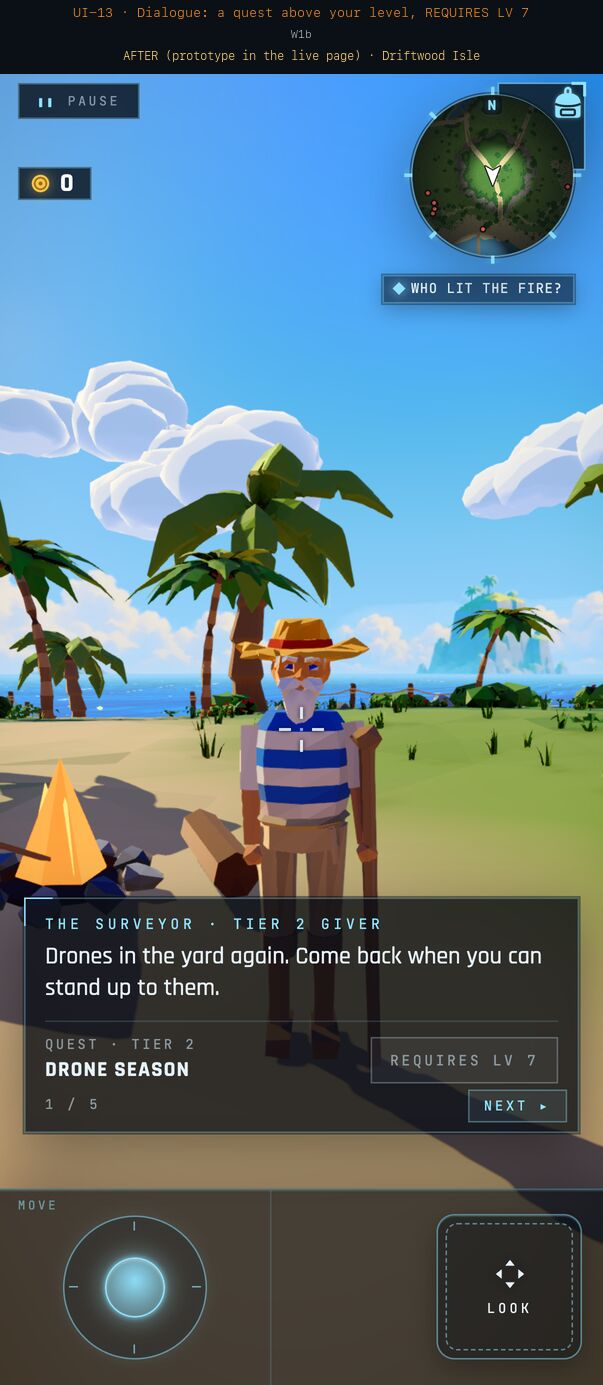
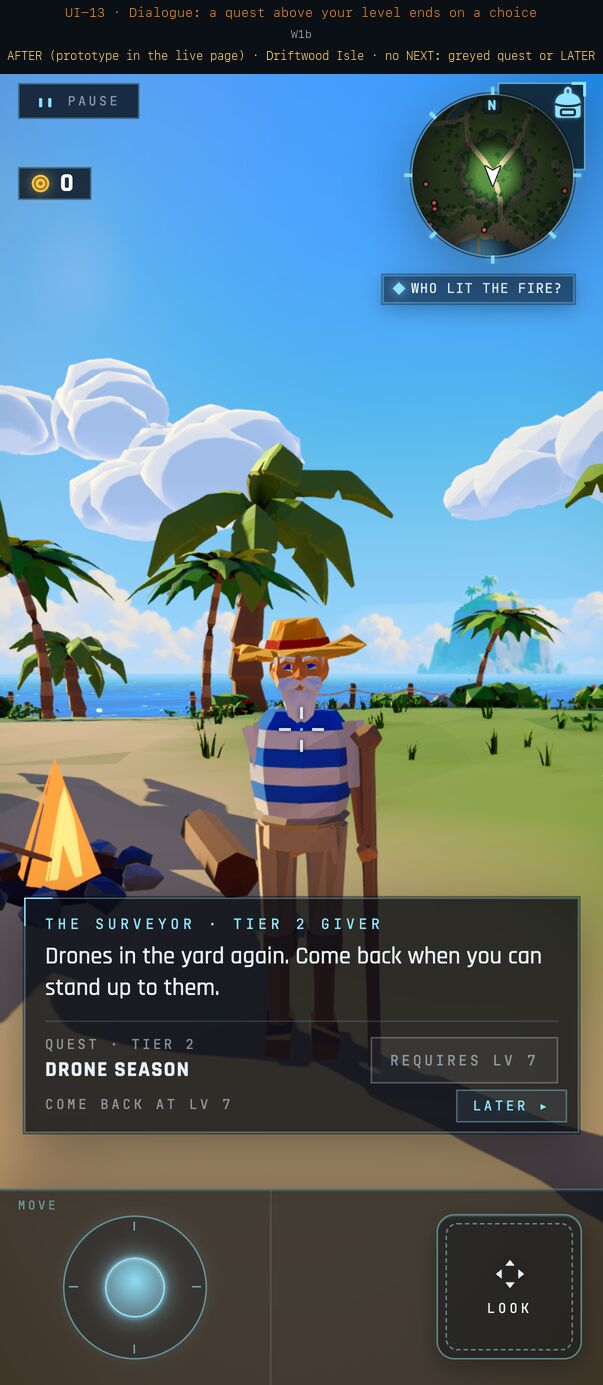
docs(kitchen-sink): quest screens, six UI picks
Jake 11-03: approved UI-10, 33, 09, 34, 08. UI-14 gets every quest
screen (list, details, locked, map). UI-13 drops NEXT for a choice
when a quest is level-gated. UI-35 asks for ammo variants.

Assisted-by: Claude-Code:claude-opus-5-5

diff --git a/art/showcase-template/round-12-ui/index.html b/art/showcase-template/round-12-ui/index.html
@@ -11,15 +11,15 @@ figcaption{font-size:11px;color:#9aa3a8;text-align:center;padding-top:3px}
 #z{position:fixed;inset:0;background:#000e;display:none;align-items:center;justify-content:center;touch-action:pinch-zoom}#z img{max-width:100vw;max-height:100vh;max-height:100dvh;width:auto;height:auto;object-fit:contain;display:block}
 </style></head><body><main><h1>Kitchen Sink v2 · every UI change, in engine</h1>
 <p>Round 12 (2026-11-03). Every frame is the real game on a phone in portrait, from a served build of main. BEFORE is the live page as it is today. AFTER is the same live page with the new element added, built from the engine's own HUD classes. Driftwood Isle's crabs, Wendell and Maren stand in for the showcase's robots and NPCs. The names and numbers are the showcase's. Nalati and Pine Hollow are used where their live component is the one the showcase extends. Only the personal-best board (a 3D sign) is a generated edit. Tap a frame to see it big.</p>
-<p>Each HUD change still needs your pick before it is built (the HUD rule). <b>Picks so far: 18 approved · 0 changes asked · 0 cut · 20 pending.</b></p>
+<p>Each HUD change still needs your pick before it is built (the HUD rule). <b>Picks so far: 23 approved · 1 changes asked · 0 cut · 14 pending.</b></p>
 <p><b>The 38, grouped by what kind of change each is:</b> 4 fight-HUD controls, 6 banners sharing one style, 3 chips sharing one slot, 3 end cards sharing one card, 5 menus, 7 small additions to existing screens, 2 world things, and 8 I'd suggest cutting (shown, not cut).</p>
 <nav class="toc"><a href="#s1">1 · New controls on the fight HUD (4)</a><a href="#s2">2 · Banners: one shared style (6)</a><a href="#s3">3 · The chip under the minimap: one at a time (3)</a><a href="#s4">4 · End cards: one shared card (3)</a><a href="#s5">5 · Menus (5)</a><a href="#s6">6 · Small additions to screens that already exist (7)</a><a href="#s7">7 · In the world, not HUD (2)</a><a href="#s8">8 · Could be cut (shown, nothing cut yet) (8)</a></nav>
 <h2 id="s1">1 · New controls on the fight HUD</h2><p>The only new things on screen all the time in a fight. Floating numbers already exist; the other three are new.</p><div class="pairs"><section class="pair"><h3><b class="st approved">APPROVED</b> UI-01 · XP bar + LV chip <span>new</span></h3><p>A thin bar on the touch bar’s top edge, &quot;LV 6&quot; and the XP at its left over MOVE. Hidden on every shard without levels.</p><p class="notes">Your notes: &quot;nice … good placement&quot;</p><div class="two"><figure><img loading="lazy" src="ui-01-xp-bar-before.jpg" alt="UI-01 before"><figcaption>BEFORE · live</figcaption></figure><figure><img loading="lazy" src="ui-01-xp-bar-after.jpg" alt="UI-01 after"><figcaption>AFTER · prototype</figcaption></figure></div></section><section class="pair"><h3><b class="st approved">APPROVED</b> UI-04 · Enemy nameplates within 25 m <span>extends Combat.ts</span></h3><p>&quot;Lv n Name&quot; in the con colour (grey, green, yellow, orange, red, skull), a stagger bar, burn / shock tint, a RARE tag. Crabs stand in for robots.</p><p class="notes">Your notes: &quot;looks good to me&quot;</p><div class="two"><figure><img loading="lazy" src="ui-04-nameplates-before.jpg" alt="UI-04 before"><figcaption>BEFORE · live</figcaption></figure><figure><img loading="lazy" src="ui-04-nameplates-after.jpg" alt="UI-04 after"><figcaption>AFTER · prototype</figcaption></figure></div></section><section class="pair"><h3><b class="st approved">APPROVED</b> UI-05 · Floating combat text <span>extends Combat.ts</span></h3><p>A big yellow crit, a small grey glance, the DEFLECT and PARRY words, red −12 and DODGE by your vitals. Six on screen, the cap.</p><p class="notes">Your notes: &quot;looks good to me&quot;</p><div class="two"><figure><img loading="lazy" src="ui-05-floating-text-before.jpg" alt="UI-05 before"><figcaption>BEFORE · live</figcaption></figure><figure><img loading="lazy" src="ui-05-floating-text-after.jpg" alt="UI-05 after"><figcaption>AFTER · prototype</figcaption></figure></div></section><section class="pair"><h3><b class="st approved">APPROVED</b> UI-06 · GUARD button (D6) <span>new</span></h3><p>Four in a row: GUARD · LOCK · DODGE · JUMP, GUARD in the slot the spear’s THROW takes, only while the sword is held; its rim lights in the parry window.</p><p class="notes">Your notes: &quot;I think that's okay&quot;; then &quot;four in a row, approved&quot;: GUARD · LOCK · DODGE · JUMP, GUARD in the slot the spear's THROW takes (frame redone)</p><div class="two"><figure><img loading="lazy" src="ui-06-guard-button-before.jpg" alt="UI-06 before"><figcaption>BEFORE · live</figcaption></figure><figure><img loading="lazy" src="ui-06-guard-button-after.jpg" alt="UI-06 after"><figcaption>AFTER · prototype</figcaption></figure></div></section></div>
 <h2 id="s2">2 · Banners: one shared style</h2><p>Short messages across the screen that never block play. Built once, filled in by six moments.</p><div class="pairs"><section class="pair"><h3><b class="st approved">APPROVED</b> UI-02 · Level-up in a fight <span>new</span></h3><p>Never blocks: a ring off the chip, the chip flips to LV 7, one gain line above it, HP refilled (VITALS 31 → 179).</p><p class="notes">Your notes: &quot;Yeah, sure&quot;</p><div class="two"><figure><img loading="lazy" src="ui-02-levelup-fight-before.jpg" alt="UI-02 before"><figcaption>BEFORE · live</figcaption></figure><figure><img loading="lazy" src="ui-02-levelup-fight-after.jpg" alt="UI-02 after"><figcaption>AFTER · prototype</figcaption></figure></div></section><section class="pair"><h3><b class="st approved">APPROVED</b> UI-07 · Named elite: NAMED ELITE · LV 6 <span>extends EliteBar</span></h3><p>Nalati’s real banner and pinned bar, with the showcase’s Big Pallet and an LV tag.</p><p class="notes">Your notes: &quot;looks very similar … nice&quot;</p><div class="two"><figure><img loading="lazy" src="ui-07-elite-banner-before.jpg" alt="UI-07 before"><figcaption>BEFORE · live</figcaption></figure><figure><img loading="lazy" src="ui-07-elite-banner-after.jpg" alt="UI-07 after"><figcaption>AFTER · prototype</figcaption></figure></div></section><section class="pair"><h3><b class="st approved">APPROVED</b> UI-24 · Gauntlet wave banner <span>new</span></h3><p>WAVE 2 / 5 big in the middle as a wave starts, in the boundary warning’s type, fading after ~2 s. Nothing stays on screen.</p><p class="notes">Your notes: redone frame approved, &quot;UI 24 looks good&quot; (WAVE 2 / 5 in the middle only, fades; no chip). First round: keep &quot;WAVE 2 / 5&quot; big in the middle of the screen when a wave starts (&quot;kind of cool&quot;); drop the wave chip that stays under the quest chip: &quot;too fucking busy … we can't have those permanent banners&quot;</p><div class="two"><figure><img loading="lazy" src="ui-24-wave-banner-before.jpg" alt="UI-24 before"><figcaption>BEFORE · live</figcaption></figure><figure><img loading="lazy" src="ui-24-wave-banner-after.jpg" alt="UI-24 after"><figcaption>AFTER · prototype</figcaption></figure></div></section><section class="pair"><h3><b class="st approved">APPROVED</b> UI-26 · Boss intro title card <span>content only</span></h3><p>The real letterbox, name card and HOLD TO SKIP ring: THE CRATE TITAN · LV 20.</p><p class="notes">Your notes: &quot;fine … looks fine&quot;</p><div class="two"><figure><img loading="lazy" src="ui-26-cutscene-card-before.jpg" alt="UI-26 before"><figcaption>BEFORE · live</figcaption></figure><figure><img loading="lazy" src="ui-26-cutscene-card-after.jpg" alt="UI-26 after"><figcaption>AFTER · prototype</figcaption></figure></div></section><section class="pair"><h3><b class="st approved">APPROVED</b> UI-22 · Storm hour <span>the wave banner’s line</span></h3><p>One centred line as the hour starts, fading after ~2 s; lighting a beacon flashes BEACON 2 / 4 the same way. No minimap beacons, no toast; the storm chip is today’s.</p><p class="notes">Your notes: redone frame approved, &quot;UI 22 looks good&quot;. First round: &quot;way too busy … the beacons on the minimap is way too busy … a really more minimalist, lightweight&quot; one; now one centred STORM HOUR line that fades, no minimap beacons, no toast, the storm chip unchanged</p><div class="two"><figure><img loading="lazy" src="ui-22-storm-hour-before.jpg" alt="UI-22 before"><figcaption>BEFORE · live</figcaption></figure><figure><img loading="lazy" src="ui-22-storm-hour-after.jpg" alt="UI-22 after"><figcaption>AFTER · prototype</figcaption></figure></div></section><section class="pair"><h3><b class="st approved">APPROVED</b> UI-17 · Checkpoint card (QC6) <span>new</span></h3><p>A quest leg done and saved: the reward caption’s type with a CHECKPOINT SAVED tick.</p><p class="notes">Your notes: &quot;Yeah, cool. Let's do it.&quot;</p><div class="two"><figure><img loading="lazy" src="ui-17-checkpoint-card-before.jpg" alt="UI-17 before"><figcaption>BEFORE · live</figcaption></figure><figure><img loading="lazy" src="ui-17-checkpoint-card-after.jpg" alt="UI-17 after"><figcaption>AFTER · prototype</figcaption></figure></div></section></div>
 <h2 id="s3">3 · The chip under the minimap: one at a time</h2><p>A single timer or counter slot that shows only during a run. Built once; this also settles the crowded slot.</p><div class="pairs"><section class="pair"><h3><b class="st approved">APPROVED</b> UI-20 · Course clock chip (D22) <span>reuses the weather chip</span></h3><p>Only during a run, in the quest chip’s place (the quest chip hides and comes back when the run ends): time, checkpoint, PB.</p><p class="notes">Your notes: redone frame approved, &quot;UI 20 looks good&quot;. First round: &quot;it can hide the quest chip whilst it's showing the course clock … when we're done … show the quest chip again … not be so busy&quot;; the clock now takes the quest chip's place</p><div class="two"><figure><img loading="lazy" src="ui-20-course-clock-before.jpg" alt="UI-20 before"><figcaption>BEFORE · live</figcaption></figure><figure><img loading="lazy" src="ui-20-course-clock-after.jpg" alt="UI-20 after"><figcaption>AFTER · prototype</figcaption></figure></div></section><section class="pair"><h3><b class="st approved">APPROVED</b> UI-29 · Training Vault sealed room <span>new</span></h3><p>Picked A: inside the vault the tracked quest hides and one chip takes its place, TRAINING VAULT | ROOM 2/4 · 3 LEFT; the quest chip comes back when you leave.</p><p class="notes">Your notes: &quot;way too busy … hide the rest of the quest … a dungeon specific quest chip, but like just one … I need new ideas&quot;; then &quot;we can pick A for the UI 29, the vault stuff&quot;. **A:** inside the vault the tracked quest hides and one chip takes its place, TRAINING VAULT · ROOM 2/4 · 3 LEFT; the quest chip comes back on leaving (ui-29-opt-a.jpg)</p><div class="two"><figure><img loading="lazy" src="ui-29-vault-room-before.jpg" alt="UI-29 before"><figcaption>BEFORE · live</figcaption></figure><figure><img loading="lazy" src="ui-29-opt-a.jpg" alt="UI-29 after"><figcaption>AFTER · prototype</figcaption></figure></div><p class="notes">The options you chose from (you picked A):</p><figure><img loading="lazy" src="ui-29-board.jpg" alt="UI-29 options"><figcaption>A · the vault’s own quest chip · B · nothing stays · C · room pips only</figcaption></figure></section><section class="pair"><h3><b class="st approved">APPROVED</b> UI-31 · Hover park trick score <span>new</span></h3><p>A trick word over the board; the running score takes the quest chip’s place while you’re in the park.</p><p class="notes">Your notes: redone frame approved, &quot;UI 31 looks good now&quot;. First round: &quot;the same kind of temporary UI … the timed racing … when we show that kind of UI, we want to hide the normal quest UI … make it tidier&quot;; the trick score now takes the quest chip's place in the park</p><div class="two"><figure><img loading="lazy" src="ui-31-trick-score-before.jpg" alt="UI-31 before"><figcaption>BEFORE · live</figcaption></figure><figure><img loading="lazy" src="ui-31-trick-score-after.jpg" alt="UI-31 after"><figcaption>AFTER · prototype</figcaption></figure></div></section></div>
 <h2 id="s4">4 · End cards: one shared card</h2><p>A full card after something finishes, only out of combat.</p><div class="pairs"><section class="pair"><h3><b class="st approved">APPROVED</b> UI-03 · Level-up card, out of combat <span>new</span></h3><p>After 5 s calm: each gain ticks up in turn, gold on a big roll, grey on +0, TAP TO SKIP.</p><p class="notes">Your notes: &quot;UI 03 looks good to me&quot;</p><div class="two"><figure><img loading="lazy" src="ui-03-levelup-card-before.jpg" alt="UI-03 before"><figcaption>BEFORE · live</figcaption></figure><figure><img loading="lazy" src="ui-03-levelup-card-after.jpg" alt="UI-03 after"><figcaption>AFTER · prototype</figcaption></figure></div></section><section class="pair"><h3><b class="st approved">APPROVED</b> UI-19 · Shard-complete card <span>content only</span></h3><p>The real card with the Titan Cleaver and the showcase’s stats.</p><p class="notes">Your notes: &quot;Ui 19 approved&quot;</p><div class="two"><figure><img loading="lazy" src="ui-19-shard-complete-before.jpg" alt="UI-19 before"><figcaption>BEFORE · live</figcaption></figure><figure><img loading="lazy" src="ui-19-shard-complete-after.jpg" alt="UI-19 after"><figcaption>AFTER · prototype</figcaption></figure></div></section><section class="pair"><h3><b class="st approved">APPROVED</b> UI-30 · SHRINE COMPLETE card <span>reuses the complete card</span></h3><p>Time, best, deaths, rooms, the chest and the trophy; one CONTINUE that closes the card. You leave by walking through the real exit portal and rerun by walking back in.</p><p class="notes">Your notes: redone frame approved, &quot;UI 30 looks fine&quot;. First round: &quot;nice but all the buttons have to be different: leaving the mini dungeon means walking through a real portal, not hitting a button, and you can restart, it needs a change&quot;; now one CONTINUE that only closes the card, and a line: the exit portal is open behind the chest, walk through it to leave, walk back in to run it again</p><div class="two"><figure><img loading="lazy" src="ui-30-shrine-complete-before.jpg" alt="UI-30 before"><figcaption>BEFORE · live</figcaption></figure><figure><img loading="lazy" src="ui-30-shrine-complete-after.jpg" alt="UI-30 after"><figcaption>AFTER · prototype</figcaption></figure></div></section></div>
-<h2 id="s5">5 · Menus</h2><p>Screens you open. Two extend an existing shop screen, one extends Pine’s board.</p><div class="pairs"><section class="pair"><h3><b class="st pending">PENDING</b> UI-10 · Character tab (read-only) <span>new tab</span></h3><p>Gear folds into CHARACTER (five tabs); CHARACTER | GEAR sub-tabs inside, opening on CHARACTER: level and XP, the seven attributes against par, ▲▼ aptitude, the derived numbers.</p><p class="notes">Your notes: 2026-11-03, redone for re-review: &quot;Gear and character can be turned into a single item in the 5 menu icons … two nested tabs for gear and character underneath, default to character&quot;; now five tabs (MAP · CHARACTER · FINDS · PACK · FEATS), CHARACTER / GEAR inside, opens on CHARACTER</p><div class="two"><figure><img loading="lazy" src="ui-10-character-tab-before.jpg" alt="UI-10 before"><figcaption>BEFORE · live</figcaption></figure><figure><img loading="lazy" src="ui-10-character-tab-after.jpg" alt="UI-10 after"><figcaption>AFTER · prototype</figcaption></figure></div></section><section class="pair"><h3><b class="st pending">PENDING</b> UI-14 · Quest list on the map tab (D13, D14) <span>new</span></h3><p>MAP | QUESTS sub-tabs in the map tab; QUESTS lists all twelve active, one tracked (feeds the HUD chip).</p><p class="notes">Your notes: 2026-11-03, redone for re-review: &quot;same thing, map and quests can be shared but it must be two nested tabs to toggle them&quot;; now MAP / QUESTS sub-tabs in the map tab, the frame shows QUESTS</p><div class="two"><figure><img loading="lazy" src="ui-14-quest-list-before.jpg" alt="UI-14 before"><figcaption>BEFORE · live</figcaption></figure><figure><img loading="lazy" src="ui-14-quest-list-after.jpg" alt="UI-14 after"><figcaption>AFTER · prototype</figcaption></figure></div></section><section class="pair"><h3><b class="st approved">APPROVED</b> UI-16 · Kill-contract board, fixed mode <span>extends Pine’s board</span></h3><p>Level-locked rows, first-time trophy and joke title.</p><p class="notes">Your notes: &quot;Ui 16 sure&quot;</p><div class="two"><figure><img loading="lazy" src="ui-16-contract-board-before.jpg" alt="UI-16 before"><figcaption>BEFORE · live</figcaption></figure><figure><img loading="lazy" src="ui-16-contract-board-after.jpg" alt="UI-16 after"><figcaption>AFTER · prototype</figcaption></figure></div></section><section class="pair"><h3><b class="st approved">APPROVED</b> UI-32 · Tinker Rook: UPGRADES / BENCH <span>extends ShopPanel</span></h3><p>Two tabs, Scrip and parts on every tile, LV tags and locks.</p><p class="notes">Your notes: &quot;Ui 32 sure&quot;</p><div class="two"><figure><img loading="lazy" src="ui-32-upgrades-bench-before.jpg" alt="UI-32 before"><figcaption>BEFORE · live</figcaption></figure><figure><img loading="lazy" src="ui-32-upgrades-bench-after.jpg" alt="UI-32 after"><figcaption>AFTER · prototype</figcaption></figure></div></section><section class="pair"><h3><b class="st pending">PENDING</b> UI-33 · The weapons shop <span>extends ShopPanel</span></h3><p>Weapons bought, locked by level (the rifle at LV 10).</p><div class="two"><figure><img loading="lazy" src="ui-33-weapons-shop-before.jpg" alt="UI-33 before"><figcaption>BEFORE · live</figcaption></figure><figure><img loading="lazy" src="ui-33-weapons-shop-after.jpg" alt="UI-33 after"><figcaption>AFTER · prototype</figcaption></figure></div></section></div>
-<h2 id="s6">6 · Small additions to screens that already exist</h2><p>A line, a number or a label on something already in the game. No new control.</p><div class="pairs"><section class="pair"><h3><b class="st pending">PENDING</b> UI-13 · REQUIRES LV 7 in the dialogue <span>extends the talk panel</span></h3><p>The real dialogue panel with a quest row and a locked accept button.</p><div class="two"><figure><img loading="lazy" src="ui-13-requires-level-before.jpg" alt="UI-13 before"><figcaption>BEFORE · live</figcaption></figure><figure><img loading="lazy" src="ui-13-requires-level-after.jpg" alt="UI-13 after"><figcaption>AFTER · prototype</figcaption></figure></div></section><section class="pair"><h3><b class="st pending">PENDING</b> UI-09 · Death card + XP loss <span>extends DeathFade</span></h3><p>The same card with one more line: −340 XP, 25 % of level 7, never below level 7.</p><div class="two"><figure><img loading="lazy" src="ui-09-death-card-before.jpg" alt="UI-09 before"><figcaption>BEFORE · live</figcaption></figure><figure><img loading="lazy" src="ui-09-death-card-after.jpg" alt="UI-09 after"><figcaption>AFTER · prototype</figcaption></figure></div></section><section class="pair"><h3><b class="st pending">PENDING</b> UI-34 · The 20-slot pack <span>extends PACK</span></h3><p>One slot a kind, never full; unfound kinds as dashed silhouettes.</p><div class="two"><figure><img loading="lazy" src="ui-34-pack-20-before.jpg" alt="UI-34 before"><figcaption>BEFORE · live</figcaption></figure><figure><img loading="lazy" src="ui-34-pack-20-after.jpg" alt="UI-34 after"><figcaption>AFTER · prototype</figcaption></figure></div></section><section class="pair"><h3><b class="st pending">PENDING</b> UI-35 · Ammo pouch + picker (D17, D18) <span>extends BOLTS</span></h3><p>Pouch counters on the bolts chip; the weapon pie’s look on the BOLTS disc for iron / pitch / broadhead.</p><div class="two"><figure><img loading="lazy" src="ui-35-ammo-pouch-before.jpg" alt="UI-35 before"><figcaption>BEFORE · live</figcaption></figure><figure><img loading="lazy" src="ui-35-ammo-pouch-after.jpg" alt="UI-35 after"><figcaption>AFTER · prototype</figcaption></figure></div></section><section class="pair"><h3><b class="st pending">PENDING</b> UI-08 · Boss bar with phases <span>extends BossBar</span></h3><p>Today’s bar already has phase notches and the PHASE caption; the Crate Titan adds LV 20 and three phase pips.</p><div class="two"><figure><img loading="lazy" src="ui-08-boss-bar-before.jpg" alt="UI-08 before"><figcaption>BEFORE · live</figcaption></figure><figure><img loading="lazy" src="ui-08-boss-bar-after.jpg" alt="UI-08 after"><figcaption>AFTER · prototype</figcaption></figure></div></section><section class="pair"><h3><b class="st pending">PENDING</b> UI-23 · Stealth: UNSEEN <span>content only</span></h3><p>Nalati’s stealth layer; the hidden state’s label is data.</p><div class="two"><figure><img loading="lazy" src="ui-23-stealth-unseen-before.jpg" alt="UI-23 before"><figcaption>BEFORE · live</figcaption></figure><figure><img loading="lazy" src="ui-23-stealth-unseen-after.jpg" alt="UI-23 after"><figcaption>AFTER · prototype</figcaption></figure></div></section><section class="pair"><h3><b class="st pending">PENDING</b> UI-25 · Portal ENTER prompt <span>content only</span></h3><p>The real USE band, reading Enter the Training Vault.</p><div class="two"><figure><img loading="lazy" src="ui-25-portal-enter-before.jpg" alt="UI-25 before"><figcaption>BEFORE · live</figcaption></figure><figure><img loading="lazy" src="ui-25-portal-enter-after.jpg" alt="UI-25 after"><figcaption>AFTER · prototype</figcaption></figure></div></section></div>
+<h2 id="s5">5 · Menus</h2><p>Screens you open. Two extend an existing shop screen, one extends Pine’s board.</p><div class="pairs"><section class="pair"><h3><b class="st approved">APPROVED</b> UI-10 · Character tab (read-only) <span>new tab</span></h3><p>Gear folds into CHARACTER (five tabs); CHARACTER | GEAR sub-tabs inside, opening on CHARACTER: level and XP, the seven attributes against par, ▲▼ aptitude, the derived numbers.</p><p class="notes">Your notes: redone frame approved, &quot;UI 10 looks fine&quot;. First round: &quot;Gear and character can be turned into a single item in the 5 menu icons … two nested tabs for gear and character underneath, default to character&quot;; now five tabs (MAP · CHARACTER · FINDS · PACK · FEATS), CHARACTER / GEAR inside, opens on CHARACTER</p><div class="two"><figure><img loading="lazy" src="ui-10-character-tab-before.jpg" alt="UI-10 before"><figcaption>BEFORE · live</figcaption></figure><figure><img loading="lazy" src="ui-10-character-tab-after.jpg" alt="UI-10 after"><figcaption>AFTER · prototype</figcaption></figure></div></section><section class="pair"><h3><b class="st pending">PENDING</b> UI-14 · Quest list on the map tab (D13, D14) <span>new</span></h3><p>MAP | QUESTS sub-tabs in the map tab; QUESTS lists all twelve active, one tracked (feeds the HUD chip).</p><p class="notes">Your notes: 2026-11-03, redone for re-review: &quot;same thing, map and quests can be shared but it must be two nested tabs to toggle them&quot;; now MAP / QUESTS sub-tabs in the map tab, the frame shows QUESTS. Then: &quot;now that we have far more space for quests … show me … the quest list, the quest details … all the quest related screens&quot;; board ui-14-q-board.jpg: the list grouped by tier, one quest’s details, a locked quest, the MAP sub-tab with the tracked quest</p><div class="two"><figure><img loading="lazy" src="ui-14-quest-list-before.jpg" alt="UI-14 before"><figcaption>BEFORE · live</figcaption></figure><figure><img loading="lazy" src="ui-14-quest-list-after.jpg" alt="UI-14 after"><figcaption>AFTER · prototype</figcaption></figure></div><p class="notes">All the quest screens: the list, one quest’s details, a locked quest, the map with the tracked quest:</p><figure><img loading="lazy" src="ui-14-q-board.jpg" alt="UI-14 quest screens"><figcaption>QUESTS list · details · locked · MAP</figcaption></figure></section><section class="pair"><h3><b class="st approved">APPROVED</b> UI-16 · Kill-contract board, fixed mode <span>extends Pine’s board</span></h3><p>Level-locked rows, first-time trophy and joke title.</p><p class="notes">Your notes: &quot;Ui 16 sure&quot;</p><div class="two"><figure><img loading="lazy" src="ui-16-contract-board-before.jpg" alt="UI-16 before"><figcaption>BEFORE · live</figcaption></figure><figure><img loading="lazy" src="ui-16-contract-board-after.jpg" alt="UI-16 after"><figcaption>AFTER · prototype</figcaption></figure></div></section><section class="pair"><h3><b class="st approved">APPROVED</b> UI-32 · Tinker Rook: UPGRADES / BENCH <span>extends ShopPanel</span></h3><p>Two tabs, Scrip and parts on every tile, LV tags and locks.</p><p class="notes">Your notes: &quot;Ui 32 sure&quot;</p><div class="two"><figure><img loading="lazy" src="ui-32-upgrades-bench-before.jpg" alt="UI-32 before"><figcaption>BEFORE · live</figcaption></figure><figure><img loading="lazy" src="ui-32-upgrades-bench-after.jpg" alt="UI-32 after"><figcaption>AFTER · prototype</figcaption></figure></div></section><section class="pair"><h3><b class="st approved">APPROVED</b> UI-33 · The weapons shop <span>extends ShopPanel</span></h3><p>Weapons bought, locked by level (the rifle at LV 10).</p><p class="notes">Your notes: &quot;UI 33 is fine&quot;</p><div class="two"><figure><img loading="lazy" src="ui-33-weapons-shop-before.jpg" alt="UI-33 before"><figcaption>BEFORE · live</figcaption></figure><figure><img loading="lazy" src="ui-33-weapons-shop-after.jpg" alt="UI-33 after"><figcaption>AFTER · prototype</figcaption></figure></div></section></div>
+<h2 id="s6">6 · Small additions to screens that already exist</h2><p>A line, a number or a label on something already in the game. No new control.</p><div class="pairs"><section class="pair"><h3><b class="st pending">PENDING</b> UI-13 · REQUIRES LV 7 in the dialogue <span>extends the talk panel</span></h3><p>The real dialogue panel with a quest row and a locked accept button.</p><p class="notes">Your notes: 2026-11-03, redone for re-review: &quot;if there’s a level requirement, you can’t have a next button … you got to choose something&quot;; NEXT is gone: the greyed quest or LATER</p><div class="two"><figure><img loading="lazy" src="ui-13-requires-level-before.jpg" alt="UI-13 before"><figcaption>BEFORE · live</figcaption></figure><figure><img loading="lazy" src="ui-13-requires-level-after.jpg" alt="UI-13 after"><figcaption>AFTER · prototype</figcaption></figure></div></section><section class="pair"><h3><b class="st approved">APPROVED</b> UI-09 · Death card + XP loss <span>extends DeathFade</span></h3><p>The same card with one more line: −340 XP, 25 % of level 7, never below level 7.</p><p class="notes">Your notes: &quot;UI9 is fine&quot;</p><div class="two"><figure><img loading="lazy" src="ui-09-death-card-before.jpg" alt="UI-09 before"><figcaption>BEFORE · live</figcaption></figure><figure><img loading="lazy" src="ui-09-death-card-after.jpg" alt="UI-09 after"><figcaption>AFTER · prototype</figcaption></figure></div></section><section class="pair"><h3><b class="st approved">APPROVED</b> UI-34 · The 20-slot pack <span>extends PACK</span></h3><p>One slot a kind, never full; unfound kinds as dashed silhouettes.</p><p class="notes">Your notes: &quot;UI 34 looks fine to me&quot;</p><div class="two"><figure><img loading="lazy" src="ui-34-pack-20-before.jpg" alt="UI-34 before"><figcaption>BEFORE · live</figcaption></figure><figure><img loading="lazy" src="ui-34-pack-20-after.jpg" alt="UI-34 after"><figcaption>AFTER · prototype</figcaption></figure></div></section><section class="pair"><h3><b class="st changes">CHANGES</b> UI-35 · Ammo pouch + picker (D17, D18) <span>extends BOLTS</span></h3><p>Pouch counters on the bolts chip; the weapon pie’s look on the BOLTS disc for iron / pitch / broadhead.</p><p class="notes">Your notes: &quot;I don’t know how I feel about this … show me better variants for how to choose ammo … the main weapon wheel is somewhere else … it looks very messy. Show me a bunch of variants&quot; (variants board coming)</p><div class="two"><figure><img loading="lazy" src="ui-35-ammo-pouch-before.jpg" alt="UI-35 before"><figcaption>BEFORE · live</figcaption></figure><figure><img loading="lazy" src="ui-35-ammo-pouch-after.jpg" alt="UI-35 after"><figcaption>AFTER · prototype</figcaption></figure></div></section><section class="pair"><h3><b class="st approved">APPROVED</b> UI-08 · Boss bar with phases <span>extends BossBar</span></h3><p>Today’s bar already has phase notches and the PHASE caption; the Crate Titan adds LV 20 and three phase pips.</p><p class="notes">Your notes: &quot;UI08 is fine&quot;</p><div class="two"><figure><img loading="lazy" src="ui-08-boss-bar-before.jpg" alt="UI-08 before"><figcaption>BEFORE · live</figcaption></figure><figure><img loading="lazy" src="ui-08-boss-bar-after.jpg" alt="UI-08 after"><figcaption>AFTER · prototype</figcaption></figure></div></section><section class="pair"><h3><b class="st pending">PENDING</b> UI-23 · Stealth: UNSEEN <span>content only</span></h3><p>Nalati’s stealth layer; the hidden state’s label is data.</p><div class="two"><figure><img loading="lazy" src="ui-23-stealth-unseen-before.jpg" alt="UI-23 before"><figcaption>BEFORE · live</figcaption></figure><figure><img loading="lazy" src="ui-23-stealth-unseen-after.jpg" alt="UI-23 after"><figcaption>AFTER · prototype</figcaption></figure></div></section><section class="pair"><h3><b class="st pending">PENDING</b> UI-25 · Portal ENTER prompt <span>content only</span></h3><p>The real USE band, reading Enter the Training Vault.</p><div class="two"><figure><img loading="lazy" src="ui-25-portal-enter-before.jpg" alt="UI-25 before"><figcaption>BEFORE · live</figcaption></figure><figure><img loading="lazy" src="ui-25-portal-enter-after.jpg" alt="UI-25 after"><figcaption>AFTER · prototype</figcaption></figure></div></section></div>
 <h2 id="s7">7 · In the world, not HUD</h2><p>3D things in the level, seen like any other model.</p><div class="pairs"><section class="pair"><h3><b class="st pending">PENDING</b> UI-12 · Quest-giver ! markers <span>new</span></h3><p>Yellow ! when you can take the quest, grey ! when you are too low, both also on the minimap. Wendell and Maren stand in.</p><div class="two"><figure><img loading="lazy" src="ui-12-quest-givers-before.jpg" alt="UI-12 before"><figcaption>BEFORE · live</figcaption></figure><figure><img loading="lazy" src="ui-12-quest-givers-after.jpg" alt="UI-12 after"><figcaption>AFTER · prototype</figcaption></figure></div></section><section class="pair"><h3><b class="st pending">PENDING</b> UI-21 · Personal-best board <span>new world sign</span></h3><p>A 3D sign, so a codex edit of the world band only; the live HUD laid back on top pixel for pixel.</p><div class="two"><figure><img loading="lazy" src="ui-21-pb-board-before.jpg" alt="UI-21 before"><figcaption>BEFORE · live</figcaption></figure><figure><img loading="lazy" src="ui-21-pb-board-after.jpg" alt="UI-21 after"><figcaption>AFTER · prototype</figcaption></figure></div></section></div>
 <h2 id="s8">8 · Could be cut (shown, nothing cut yet)</h2><p>My suggestions to drop, each with why. Your call; all still in the plan.</p><div class="pairs"><section class="pair"><h3><b class="st pending">PENDING</b> UI-11 · The DEFLECT first hint <span>extends FirstHints</span></h3><p>Once, the first time a hit is deflected: fight targets near your level.</p><p class="cut">Why cut: The GUARD button already says it.</p><div class="two"><figure><img loading="lazy" src="ui-11-deflect-hint-before.jpg" alt="UI-11 before"><figcaption>BEFORE · live</figcaption></figure><figure><img loading="lazy" src="ui-11-deflect-hint-after.jpg" alt="UI-11 after"><figcaption>AFTER · prototype</figcaption></figure></div></section><section class="pair"><h3><b class="st pending">PENDING</b> UI-27 · Map heat map <span>new</span></h3><p>The level bands tinted on the map tab, a CON key in the legend.</p><p class="cut">Why cut: Nameplates and REQUIRES LV already tell you an area is too hard.</p><div class="two"><figure><img loading="lazy" src="ui-27-map-heat-before.jpg" alt="UI-27 before"><figcaption>BEFORE · live</figcaption></figure><figure><img loading="lazy" src="ui-27-map-heat-after.jpg" alt="UI-27 after"><figcaption>AFTER · prototype</figcaption></figure></div></section><section class="pair"><h3><b class="st pending">PENDING</b> UI-28 · Minimap band border <span>new</span></h3><p>An orange arc on the rim toward a higher band, BAND 3 · LV 7–9 AHEAD.</p><p class="cut">Why cut: Same as the heat map.</p><div class="two"><figure><img loading="lazy" src="ui-28-minimap-band-before.jpg" alt="UI-28 before"><figcaption>BEFORE · live</figcaption></figure><figure><img loading="lazy" src="ui-28-minimap-band-after.jpg" alt="UI-28 after"><figcaption>AFTER · prototype</figcaption></figure></div></section><section class="pair"><h3><b class="st pending">PENDING</b> UI-38 · Scrip chip + salvage part <span>content only</span></h3><p>The coin chip as Scrip, and a kill’s +3 Scrip · +1 Servo toast.</p><p class="cut">Why cut: Scrip shows in the shops and the pack.</p><div class="two"><figure><img loading="lazy" src="ui-38-scrip-chip-before.jpg" alt="UI-38 before"><figcaption>BEFORE · live</figcaption></figure><figure><img loading="lazy" src="ui-38-scrip-chip-after.jpg" alt="UI-38 after"><figcaption>AFTER · prototype</figcaption></figure></div></section><section class="pair"><h3><b class="st pending">PENDING</b> UI-37 · The range’s loaner (D2) <span>extends the weapon pie</span></h3><p>Nalati’s real pie, every weapon but your own tagged LOAN, and the toast.</p><p class="cut">Why cut: A plain toast does it.</p><div class="two"><figure><img loading="lazy" src="ui-37-range-loaner-before.jpg" alt="UI-37 before"><figcaption>BEFORE · live</figcaption></figure><figure><img loading="lazy" src="ui-37-range-loaner-after.jpg" alt="UI-37 after"><figcaption>AFTER · prototype</figcaption></figure></div></section><section class="pair"><h3><b class="st pending">PENDING</b> UI-36 · Trophy perk card <span>content only</span></h3><p>The real item card: a hung trophy and its always-on perk.</p><p class="cut">Why cut: A plain toast does it.</p><div class="two"><figure><img loading="lazy" src="ui-36-trophy-perk-before.jpg" alt="UI-36 before"><figcaption>BEFORE · live</figcaption></figure><figure><img loading="lazy" src="ui-36-trophy-perk-after.jpg" alt="UI-36 after"><figcaption>AFTER · prototype</figcaption></figure></div></section><section class="pair"><h3><b class="st pending">PENDING</b> UI-15 · Shift Orientation tour step (D4) <span>content only</span></h3><p>The quest chip and a step toast; no new UI.</p><p class="cut">Why cut: The tracked-quest chip already shows the step.</p><div class="two"><figure><img loading="lazy" src="ui-15-tour-step-before.jpg" alt="UI-15 before"><figcaption>BEFORE · live</figcaption></figure><figure><img loading="lazy" src="ui-15-tour-step-after.jpg" alt="UI-15 after"><figcaption>AFTER · prototype</figcaption></figure></div></section><section class="pair"><h3><b class="st pending">PENDING</b> UI-18 · Feat toast + FINDS toast <span>content only</span></h3><p>Today’s toast with the showcase’s Gold 1×1 / Calibration Chip and a west feat.</p><p class="cut">Why cut: Keep today’s single toast stack.</p><div class="two"><figure><img loading="lazy" src="ui-18-feat-finds-toasts-before.jpg" alt="UI-18 before"><figcaption>BEFORE · live</figcaption></figure><figure><img loading="lazy" src="ui-18-feat-finds-toasts-after.jpg" alt="UI-18 after"><figcaption>AFTER · prototype</figcaption></figure></div></section></div>
 </main><div id="z"><img alt=""></div><script>

diff --git a/docs/plans/kitchen-sink-v2/STATE.md b/docs/plans/kitchen-sink-v2/STATE.md
@@ -18,4 +18,4 @@ and get redone on round 5: E11 (gauntlet), E13 / E14 / S06 (Titan arena), M03 (a
 **Decided 11-03:** Titan 15 m; the Titan road opens after the first gauntlet clear; wave-3 elite Shift Supervisor.
 
 **Open for Jake:** loot may be revisited; taller hover-park ramps; the 38 UI changes one by one in
-[UI-PICKS.md](UI-PICKS.md) (11-03: 18 approved, 20 pending).
+[UI-PICKS.md](UI-PICKS.md) (11-03: 23 approved, 15 open).
